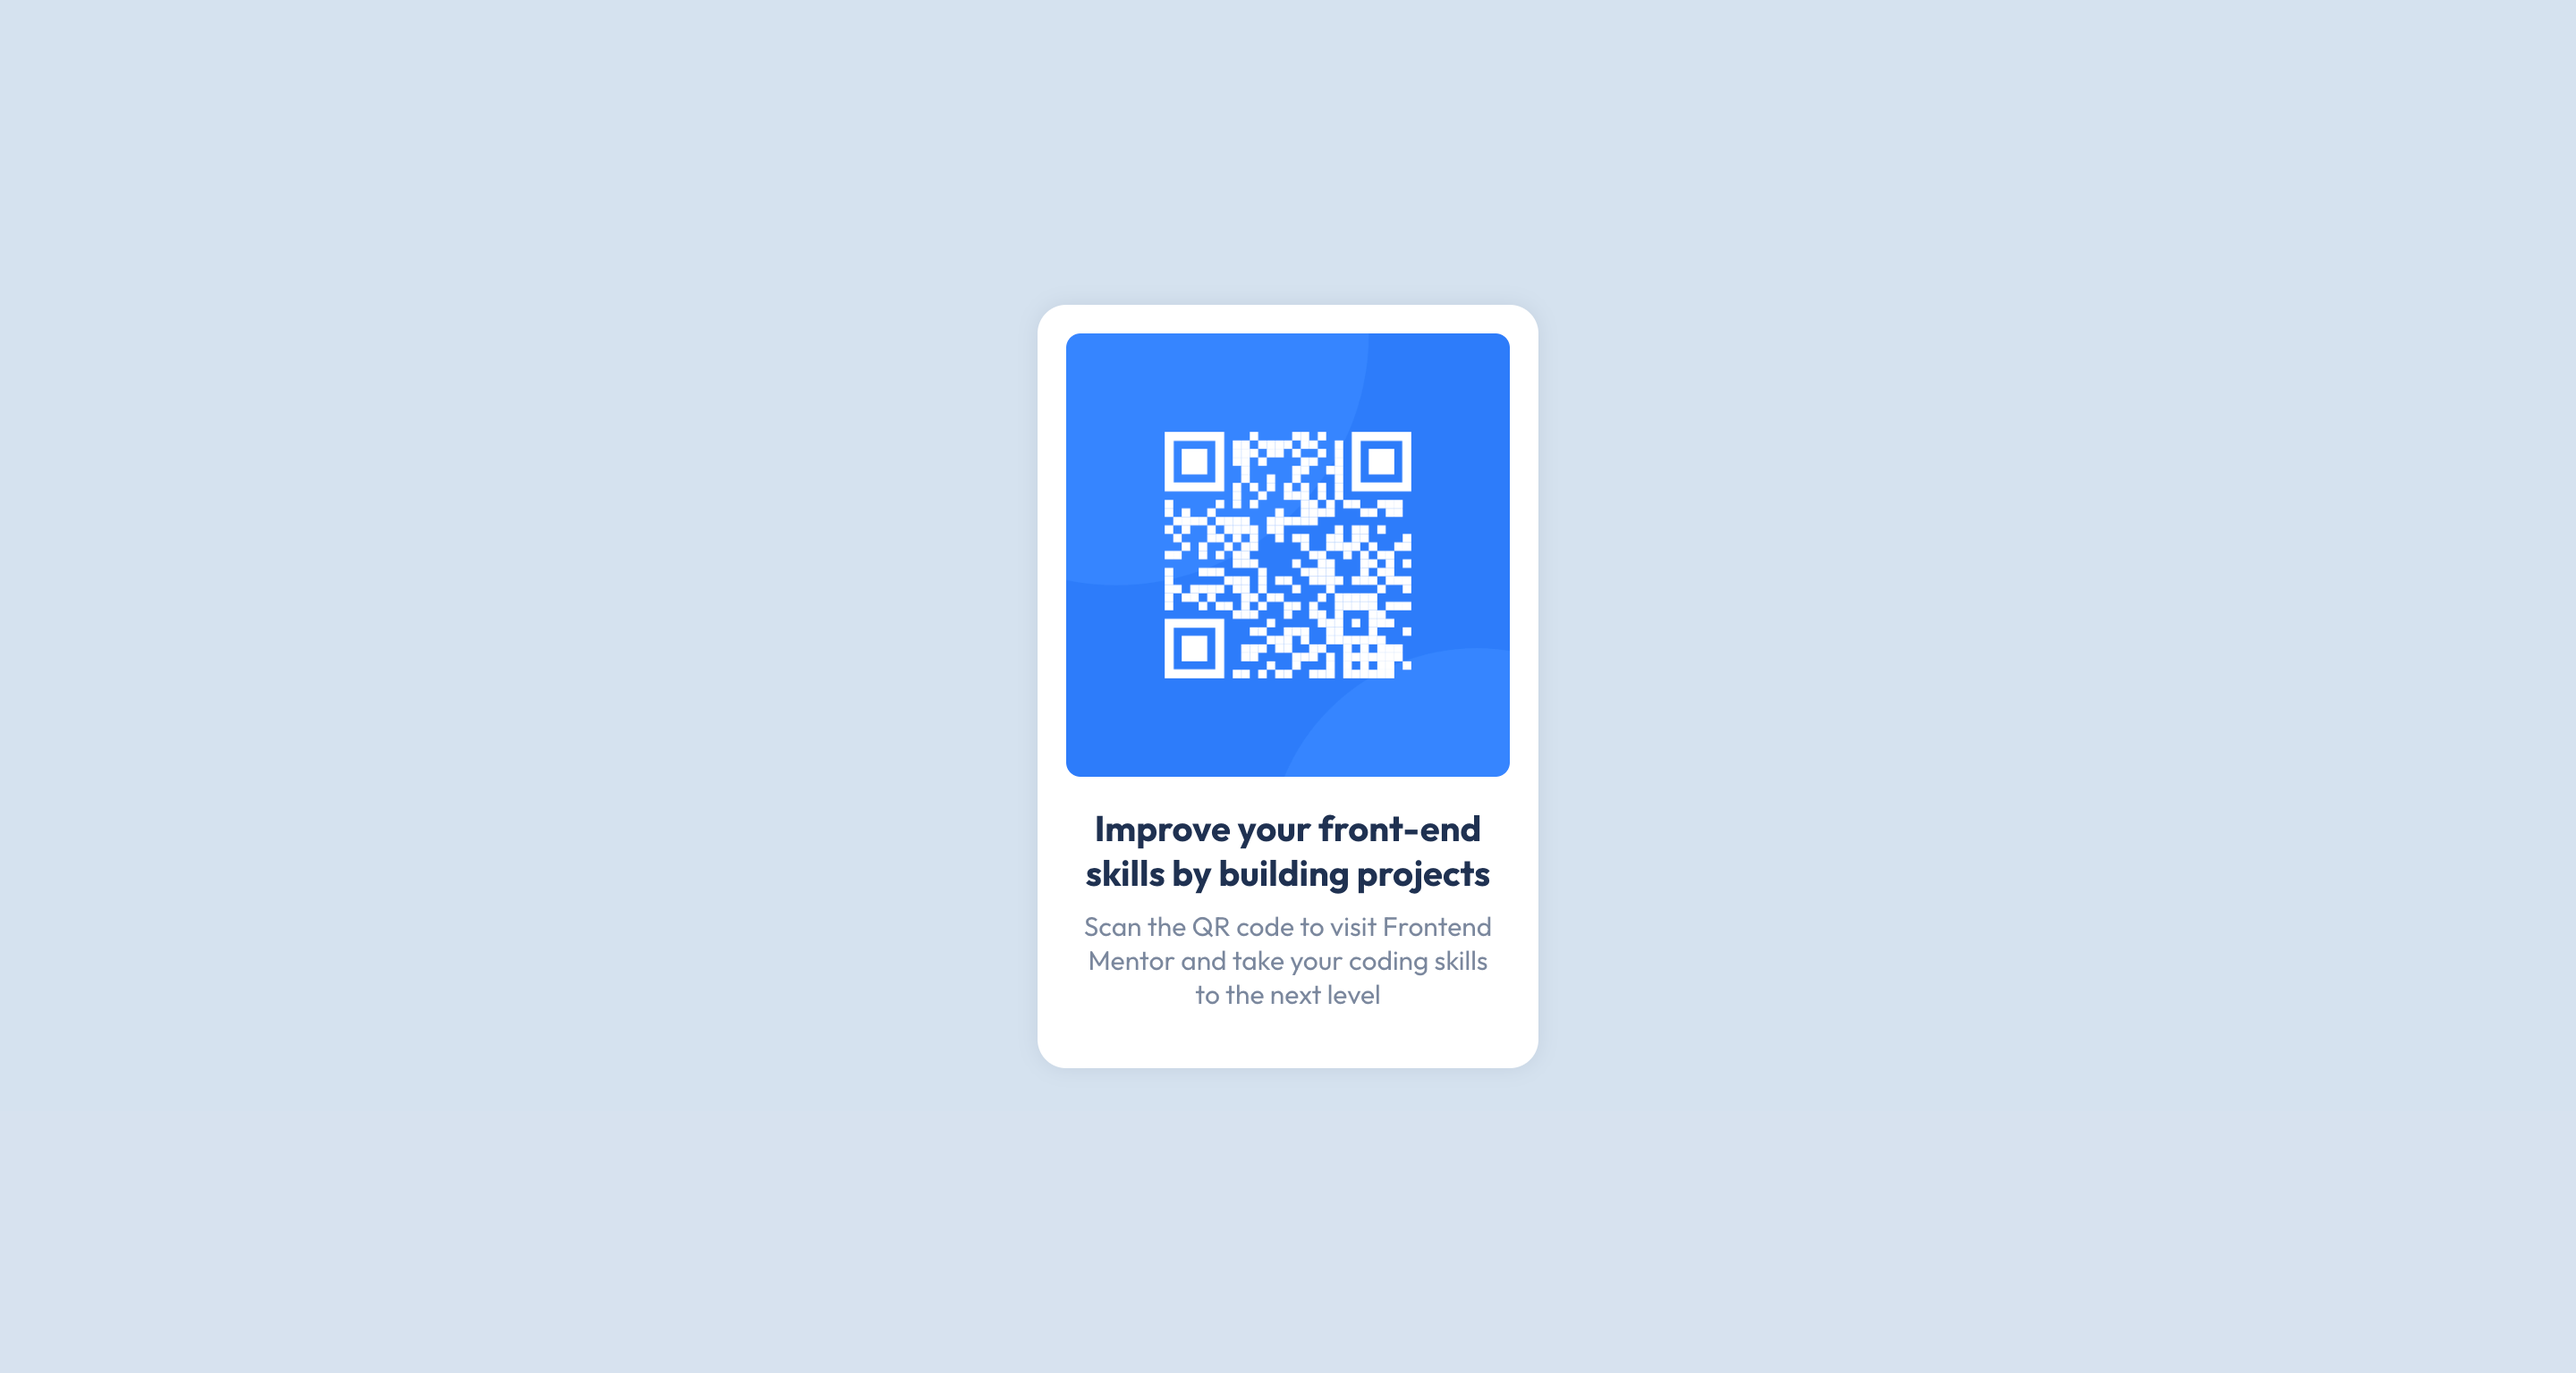
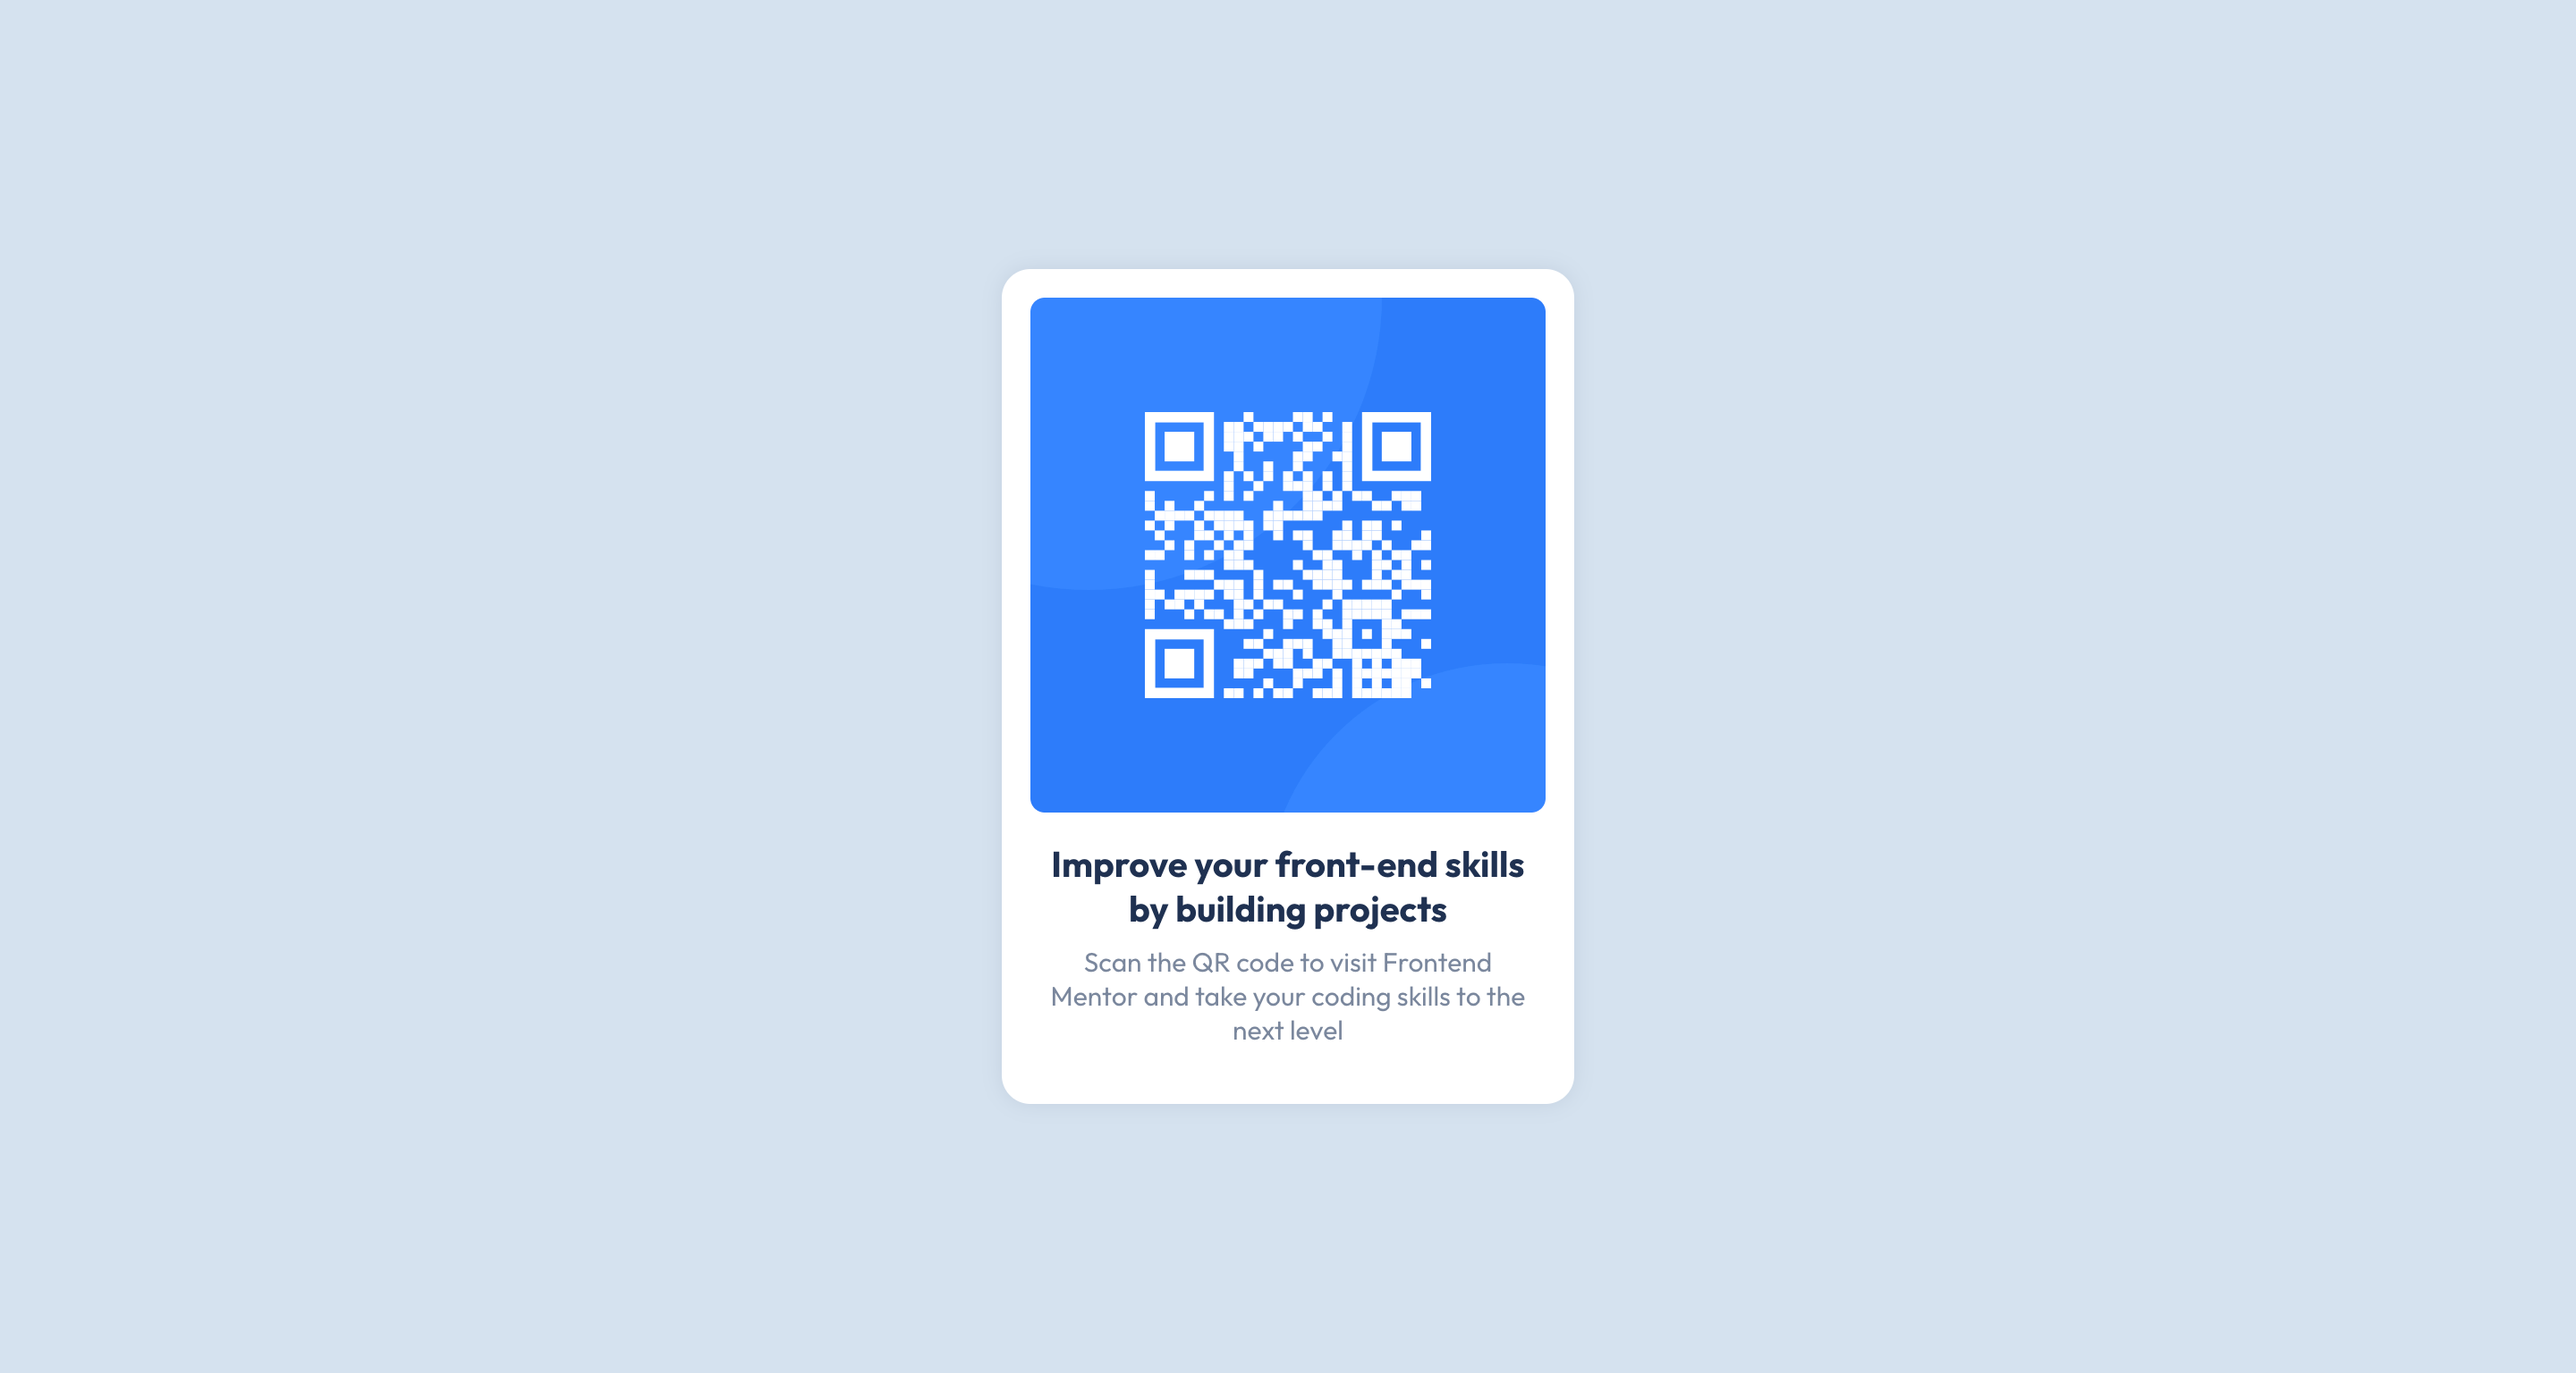
changed CSS and screenshot

Changed region(s): [[0.375, 0.1875, 0.625, 0.8125]]

diff --git a/css/style.css b/css/style.css
@@ -18,7 +18,7 @@ main .container {
   border-radius: 1.6rem;
   padding: 1.6rem 1.6rem 3.2rem 1.6rem;
   box-shadow: 0 0 12px rgba(31, 50, 81, 0.1);
-  max-width: 280px;
+  max-width: 320px;
   margin: 0 auto;
 }
 .qr-code-box .qr-code-img {

diff --git a/css/style.scss b/css/style.scss
@@ -26,7 +26,7 @@ main {
   border-radius: 1.6rem;
   padding: 1.6rem 1.6rem 3.2rem 1.6rem;
   box-shadow: 0 0 12px rgba($color: $DarkBlue, $alpha: 0.1);
-  max-width: 280px;
+  max-width: 320px;
   margin: 0 auto;
 
   .qr-code-img {
